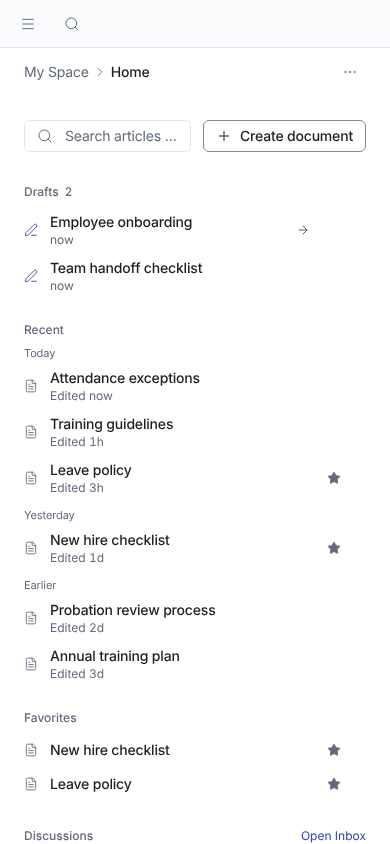
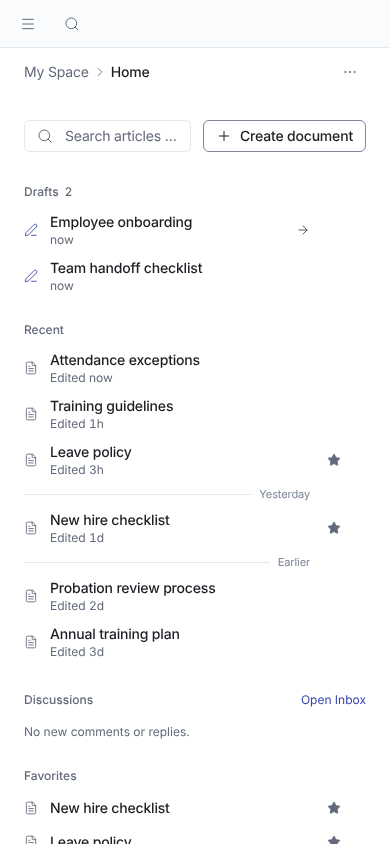
Personal Home: Discussions before Favorites; quieter Recent day labels
Replies waiting for the reader come before standing shortcuts, so the
side column reads Needs attention, Discussions, Favorites.

Recent's day groups no longer read as headings: a hairline with a faint
micro label aligned to the time column, and no visible label for a
leading Today group (it stays for screen readers).

Claude-Session: https://claude.ai/code/session_01N59NajKAtrdFpUvtSETfyD

diff --git a/tests/unit/personal-home-folder-sync.test.tsx b/tests/unit/personal-home-folder-sync.test.tsx
@@ -56,7 +56,7 @@ it("leads with Recent and Favorites, searches through ⌘K and leaves the change
   expect(html).toMatch(/<p class="[^"]*text-caption[^"]*">No new comments or replies\.<\/p>/);
   expect(html).toContain('href="/w/ws/inbox"');
   expect(html).toContain("Open Inbox");
-  expect(html.indexOf('aria-label="Favorites"')).toBeLessThan(html.indexOf('aria-label="Discussions"'));
+  expect(html.indexOf('aria-label="Discussions"')).toBeLessThan(html.indexOf('aria-label="Favorites"'));
   // The page keeps the shared breadcrumb origin: list pages stay in kh-page.
   expect(html).toContain('class="kh-page kh-home');
   expect(html).not.toContain("kh-page-wide");
@@ -77,7 +77,7 @@ it("lists every draft above Recent and gives only the latest its action and key"
   expect(section).toContain('href="/w/ws/knowledge/new?compose"');
   expect(section).toContain('<span class="ml-1.5">2</span>');
   expect(html.match(/Latest note/g)).toHaveLength(1);
-  const recent = html.slice(html.indexOf('aria-label="Recent"'), html.indexOf('aria-label="Favorites"'));
+  const recent = html.slice(html.indexOf('aria-label="Recent"'), html.indexOf('aria-label="Discussions"'));
   expect(recent).toContain('href="/w/ws/knowledge/src/b"');
   expect(recent).not.toContain('href="/w/ws/knowledge/src/a"');
   // The event is shown beside the short time; the tooltip keeps the full date.
@@ -140,11 +140,11 @@ it("puts source reminders in the attention strip and unread comments in Discussi
   const withReminders = renderToStaticMarkup(<PersonalHome workspaceId="ws" documents={[]} drafts={[]} reminders={reminders} />);
   expect(withReminders).toContain('aria-label="Needs attention"');
   const withNotices = renderToStaticMarkup(<PersonalHome workspaceId="ws" documents={[]} drafts={[]} notices={notices} />);
-  // Needs attention leads the side column, above Favorites.
-  expect(withReminders.indexOf('aria-label="Needs attention"')).toBeLessThan(withReminders.indexOf('aria-label="Favorites"'));
+  // Needs attention leads the side column, above Discussions.
+  expect(withReminders.indexOf('aria-label="Needs attention"')).toBeLessThan(withReminders.indexOf('aria-label="Discussions"'));
   expect(withNotices).not.toContain("Needs attention");
   expect(withNotices).not.toContain("No new comments or replies.");
-  const discussions = withNotices.slice(withNotices.indexOf('aria-label="Discussions"'));
+  const discussions = withNotices.slice(withNotices.indexOf('aria-label="Discussions"'), withNotices.indexOf('aria-label="Favorites"'));
   expect(discussions).toContain('aria-label="Unread discussions"');
   expect(discussions).toContain(">1<");
 });
@@ -159,7 +159,7 @@ it("labels an untimed recent as Opened without a time", () => {
 it("shows the document's page icon in Recent and Favorites", () => {
   shortcuts.value = { favorites: ["src:b"], recent: ["src:a"] };
   const html = renderToStaticMarkup(<PersonalHome workspaceId="ws" documents={[doc("a", { pageIcon: "📌" }), doc("b", { pageIcon: "🧭" })]} drafts={[]} />);
-  const recent = html.slice(html.indexOf('aria-label="Recent"'), html.indexOf('aria-label="Favorites"'));
+  const recent = html.slice(html.indexOf('aria-label="Recent"'), html.indexOf('aria-label="Discussions"'));
   const favorites = html.slice(html.indexOf('aria-label="Favorites"'));
   expect(recent).toContain("📌");
   expect(favorites).toContain("🧭");
@@ -181,7 +181,7 @@ it("names a source only where it changes from the row above", () => {
     doc("c", { sourceId: "team", sourceName: "Team wiki", updatedAt: "2026-10-07T00:00:00.000Z" }),
     doc("d", { sourceName: "Notes", updatedAt: "2026-10-06T00:00:00.000Z" }),
   ]} drafts={[]} />);
-  const recent = html.slice(html.indexOf('aria-label="Recent"'), html.indexOf('aria-label="Favorites"'));
+  const recent = html.slice(html.indexOf('aria-label="Recent"'), html.indexOf('aria-label="Discussions"'));
   // a names Notes, b repeats it and stays quiet, c changes to Team wiki, d changes back.
   expect(recent.match(/>Notes</g)).toHaveLength(2);
   expect(recent.match(/>Team wiki</g)).toHaveLength(1);
@@ -190,7 +190,7 @@ it("names a source only where it changes from the row above", () => {
 it("shows the first eight recent rows and offers the rest behind Show more", () => {
   const many = Array.from({ length: 11 }, (_, n) => doc(`d${n}`, { updatedAt: `2026-10-${String(n + 1).padStart(2, "0")}T00:00:00.000Z` }));
   const html = renderToStaticMarkup(<PersonalHome workspaceId="ws" documents={many} drafts={[]} />);
-  const recent = html.slice(html.indexOf('aria-label="Recent"'), html.indexOf('aria-label="Favorites"'));
+  const recent = html.slice(html.indexOf('aria-label="Recent"'), html.indexOf('aria-label="Discussions"'));
   expect(recent.match(/data-list-row/g)).toHaveLength(8);
   expect(recent).toContain(">Show 3 more<");
   const few = renderToStaticMarkup(<PersonalHome workspaceId="ws" documents={many.slice(0, 8)} drafts={[]} />);

diff --git a/src/components/knowledge/personal-home.tsx b/src/components/knowledge/personal-home.tsx
@@ -213,9 +213,13 @@ export function PersonalHome({ workspaceId, documents, drafts, reminders = [], n
     return undefined;
   }
 
+  // Invisible copies of a document row's preview, star and menu buttons, so what stands in their place lines up with
+  // Recent's times at every control size.
+  const slot = buttonClasses({ variant: "ghost", icon: true, size: "sm", className: "invisible" });
+  const rowSlots = <span aria-hidden="true" className="mr-1 flex shrink-0"><span className={`${slot} hidden lg:inline-flex`} /><span className={slot} /><span className={slot} /></span>;
+
   function draftRow(item: DraftItem, i: number) {
-    // Draft rows omit document actions. Matching slots align their times with Recent.
-    const slot = buttonClasses({ variant: "ghost", icon: true, size: "sm", className: "invisible" });
+    // Draft rows omit document actions; the slots align their times with Recent.
     const destination = draftDestination(item);
     // The latest draft says what opening it does and the key that does it; the arrow alone on a phone.
     const hint = i === 0 ? <span className="flex shrink-0 items-center gap-1.5 text-caption text-kh-text-secondary">
@@ -223,7 +227,7 @@ export function PersonalHome({ workspaceId, documents, drafts, reminders = [], n
     </span> : undefined;
     return <Row key={item.id} href={destination.href} icon={<PenLine size={14} aria-hidden="true" className="text-kh-selected-text" />} title={item.draft.title || "Untitled draft"} timestamp={item.at} provenance={draftProvenance(item)}
       hint={hint} keyShortcuts={i === 0 ? "R" : undefined}
-      trailing={<span aria-hidden="true" className="mr-1 flex shrink-0"><span className={`${slot} hidden lg:inline-flex`} /><span className={slot} /><span className={slot} /></span>} />;
+      trailing={rowSlots} />;
   }
 
   const recentDocs = recentShown.map(item => item.doc);
@@ -279,9 +283,14 @@ export function PersonalHome({ workspaceId, documents, drafts, reminders = [], n
           <Section title="Recent">
             {!lists.recent.length ? <EmptyLine>Documents you edit or open will appear here.{activeDocumentCount === 0 && dismissed ? <ReopenGuidanceMenuItem workspaceId={workspaceId} surface="empty" /> : null}</EmptyLine>
               : now === null ? <ul onKeyDown={navigateListRows} className="space-y-0.5">{recentShown.map(recentRow)}</ul>
-              : <div onKeyDown={navigateListRows}>{recentGroups(recentShown, now, zone).map(group => (
-                <div key={group.label} className="pt-2 first:pt-0">
-                  <h3 className="px-3 pb-1 text-micro text-kh-text-muted">{group.label}</h3>
+              : <div onKeyDown={navigateListRows}>{recentGroups(recentShown, now, zone).map((group, g) => (
+                <div key={group.label}>
+                  {/* The day belongs to the time column, not the titles: a hairline with a faint label at the right, so
+                      it never reads as a heading. Today needs none at the top; every row already carries its time. */}
+                  {g === 0 && group.label === "Today" ? <h3 className="sr-only">Today</h3>
+                    : <h3 className="flex items-center pr-1 text-micro text-kh-text-faint">
+                      <span className="flex min-w-0 flex-1 items-center gap-2 px-3 py-1"><span aria-hidden="true" className="h-px flex-1 bg-kh-border" />{group.label}</span>{rowSlots}
+                    </h3>}
                   <ul className="space-y-0.5">{group.items.map(recentRow)}</ul>
                 </div>
               ))}</div>}
@@ -291,13 +300,14 @@ export function PersonalHome({ workspaceId, documents, drafts, reminders = [], n
           </Section>
         </div>
         <div className="min-w-0 space-y-6">
+          {/* What waits for the reader first: reminders, then replies; Favorites are standing shortcuts. */}
           <AttentionList workspaceId={workspaceId} reminders={reminders} />
+          <Section title="Discussions" count={notices.length} action={{ href: `/w/${workspaceId}/inbox`, label: "Open Inbox" }}>
+            {notices.length ? <UnreadDiscussions notices={notices} /> : <EmptyLine>No new comments or replies.</EmptyLine>}
+          </Section>
           <Section title="Favorites">
             {favorites.length ? <ul onKeyDown={navigateListRows} className="space-y-0.5">{favorites.map((doc, i) => documentRow(doc, { showSource: sourceChanges(favorites, i), stackProvenance: true }))}</ul>
               : <EmptyLine>Star a document to keep it here.</EmptyLine>}
-          </Section>
-          <Section title="Discussions" count={notices.length} action={{ href: `/w/${workspaceId}/inbox`, label: "Open Inbox" }}>
-            {notices.length ? <UnreadDiscussions notices={notices} /> : <EmptyLine>No new comments or replies.</EmptyLine>}
           </Section>
         </div>
       </div>

diff --git a/docs/superpowers/specs/2026-10-19-home-continue-design.md b/docs/superpowers/specs/2026-10-19-home-continue-design.md
@@ -252,14 +252,21 @@ this section is current.
    to the hint and the links it made a third and fourth accent in the first
    band of the page. Unread Discussions keep their 6px `bg-kh-primary` dot.
 5. **Recent is grouped by day**: Today, Yesterday and Earlier, by calendar day
-   in the reader's zone; an untimed recent is Earlier. Each row shows its event
+   in the reader's zone; an untimed recent is Earlier. The day belongs to the
+   time column, not the titles: a group after the first opens with a hairline
+   (`bg-kh-border`) and its day in `micro` `text-faint` at the right, and a
+   first group of Today has no visible label (a visually hidden heading keeps
+   it for screen readers). Seen rendered, left-aligned day labels read as
+   headings between the titles. `text-faint` is allowed here because the label
+   can be ignored without losing anything: every row shows its own time. Each row shows its event
    beside the short time ("Edited 5m", "Opened 2d"); the tooltip keeps the full
    date and time. The groups appear once the client knows its zone and clock,
    the moment this device's Opened recents arrive anyway; the first paint is the
    flat list. "Show N more" still counts rows and is applied before grouping.
-6. **The right column is Needs attention, Favorites, Discussions.** Discussions
-   is still always rendered with its empty copy (the 2026-10-19 decision
-   stands). Needs attention loses its bordered panel and is rows under the
+6. **The right column is Needs attention, Discussions, Favorites**: what waits
+   for the reader (a source to fix, a reply to answer) before the standing
+   shortcuts. Discussions is still always rendered with its empty copy (the
+   2026-10-19 decision stands). Needs attention loses its bordered panel and is rows under the
    label like every other group. A reminder row is its status in `text`, its
    source in `text-muted`, and its action ("Retry", "Review") trailing in
    `text-secondary`. A failed import is the warning colour in its icon only;
